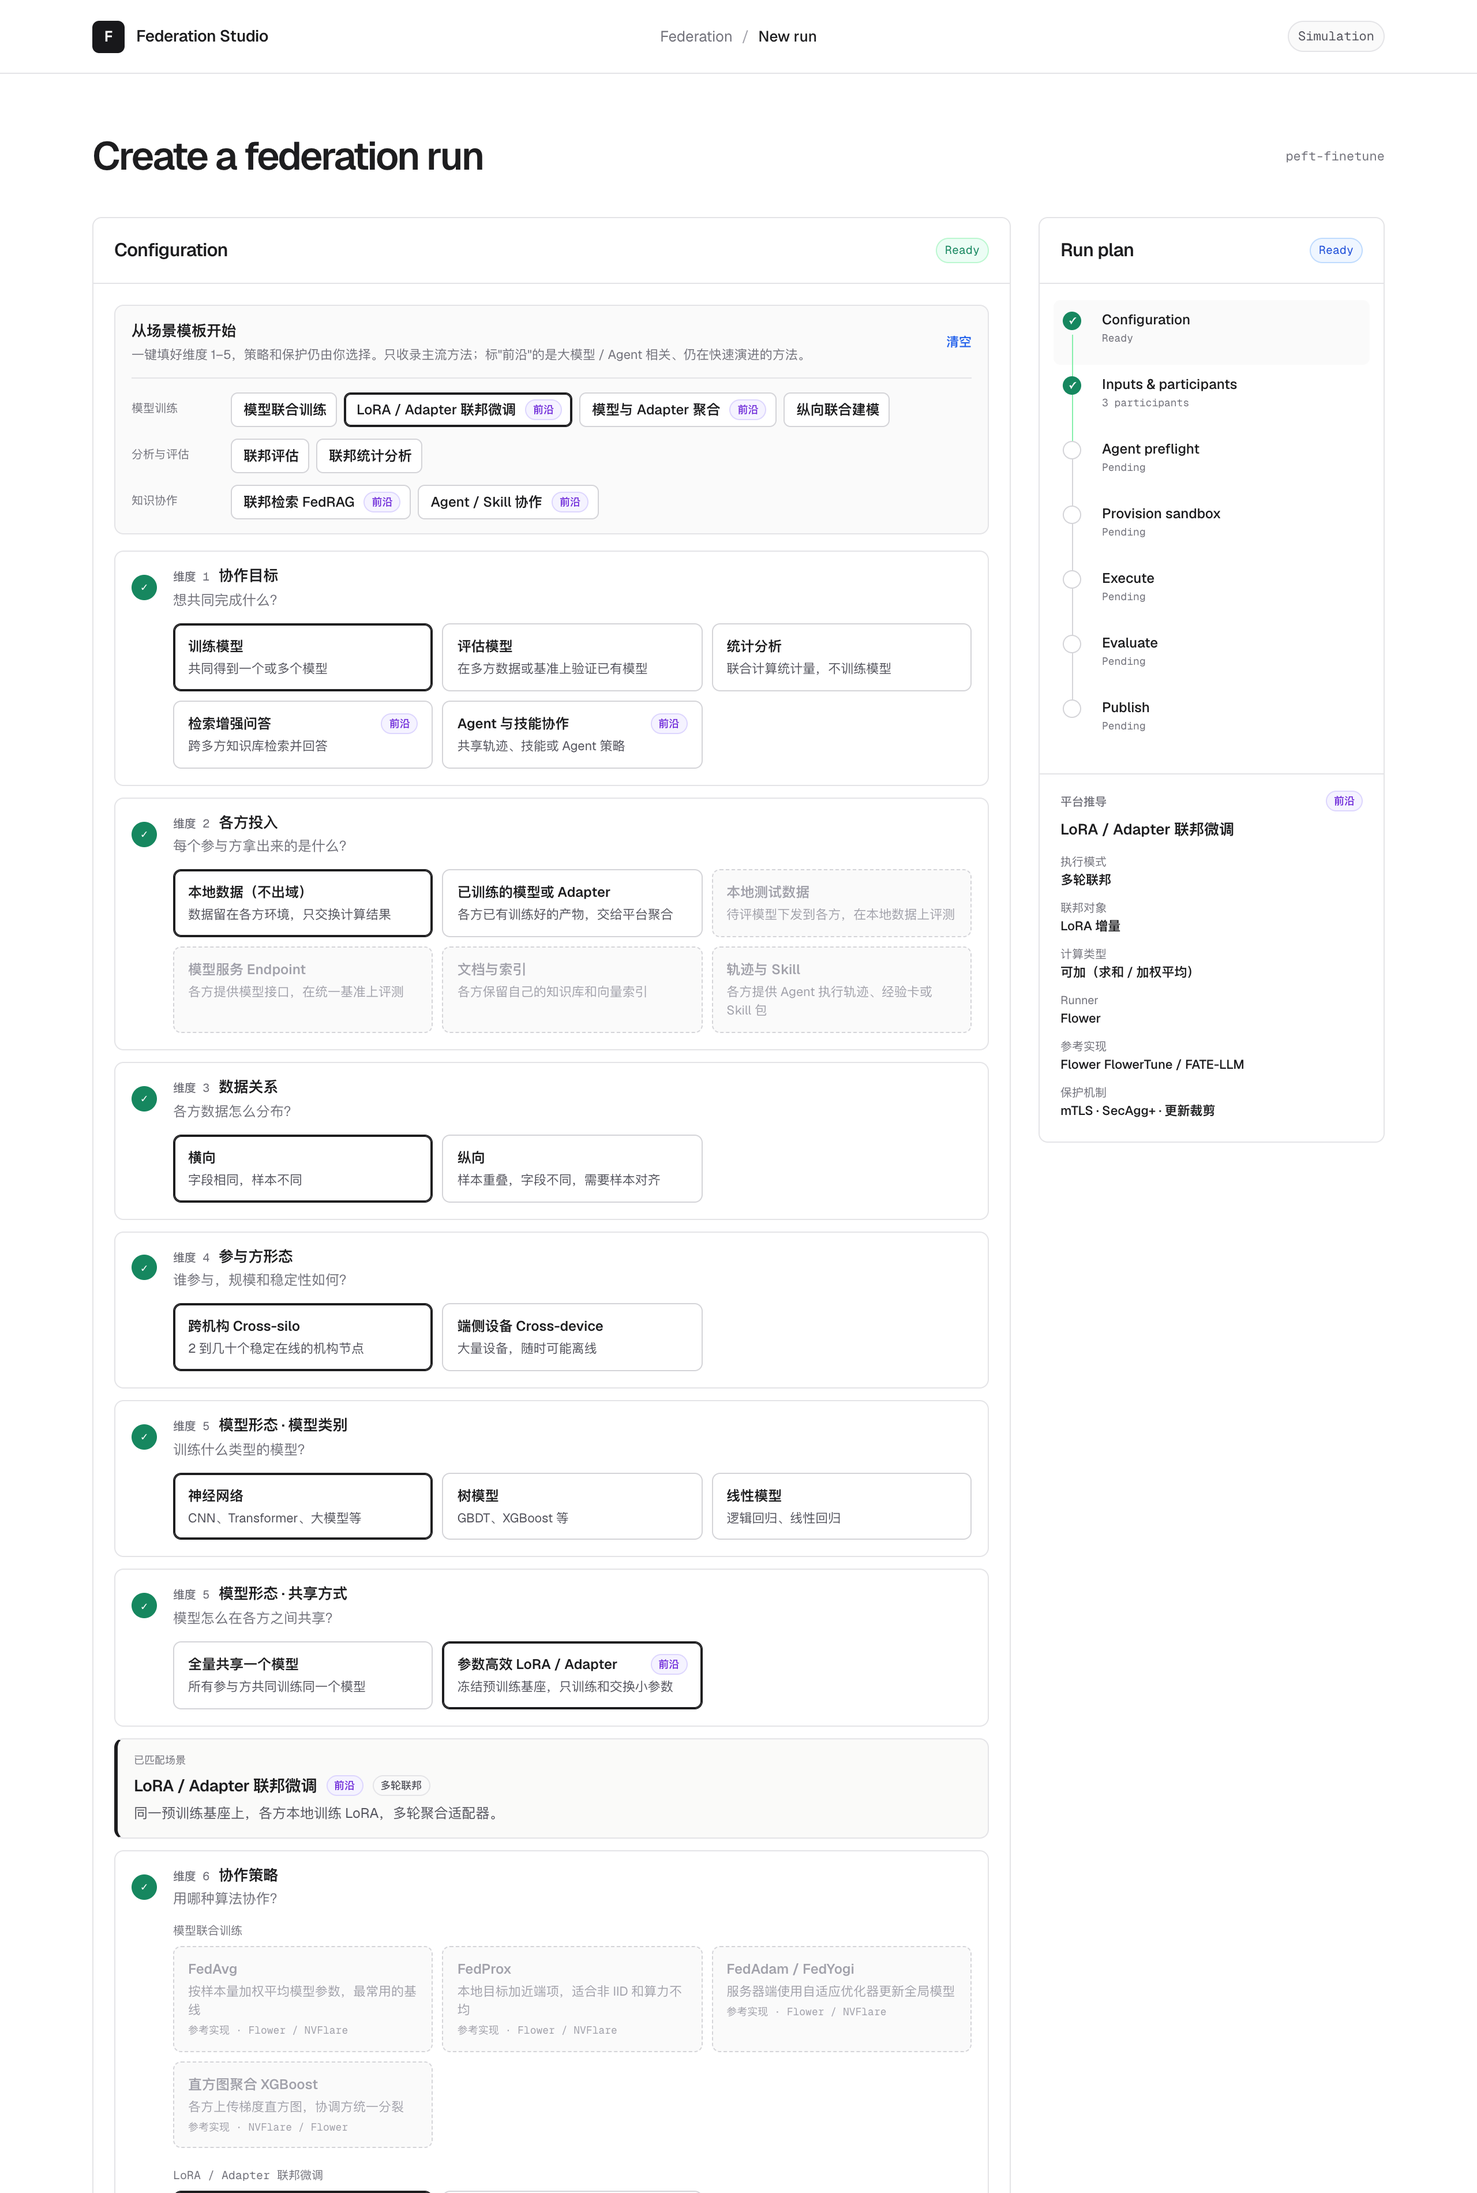
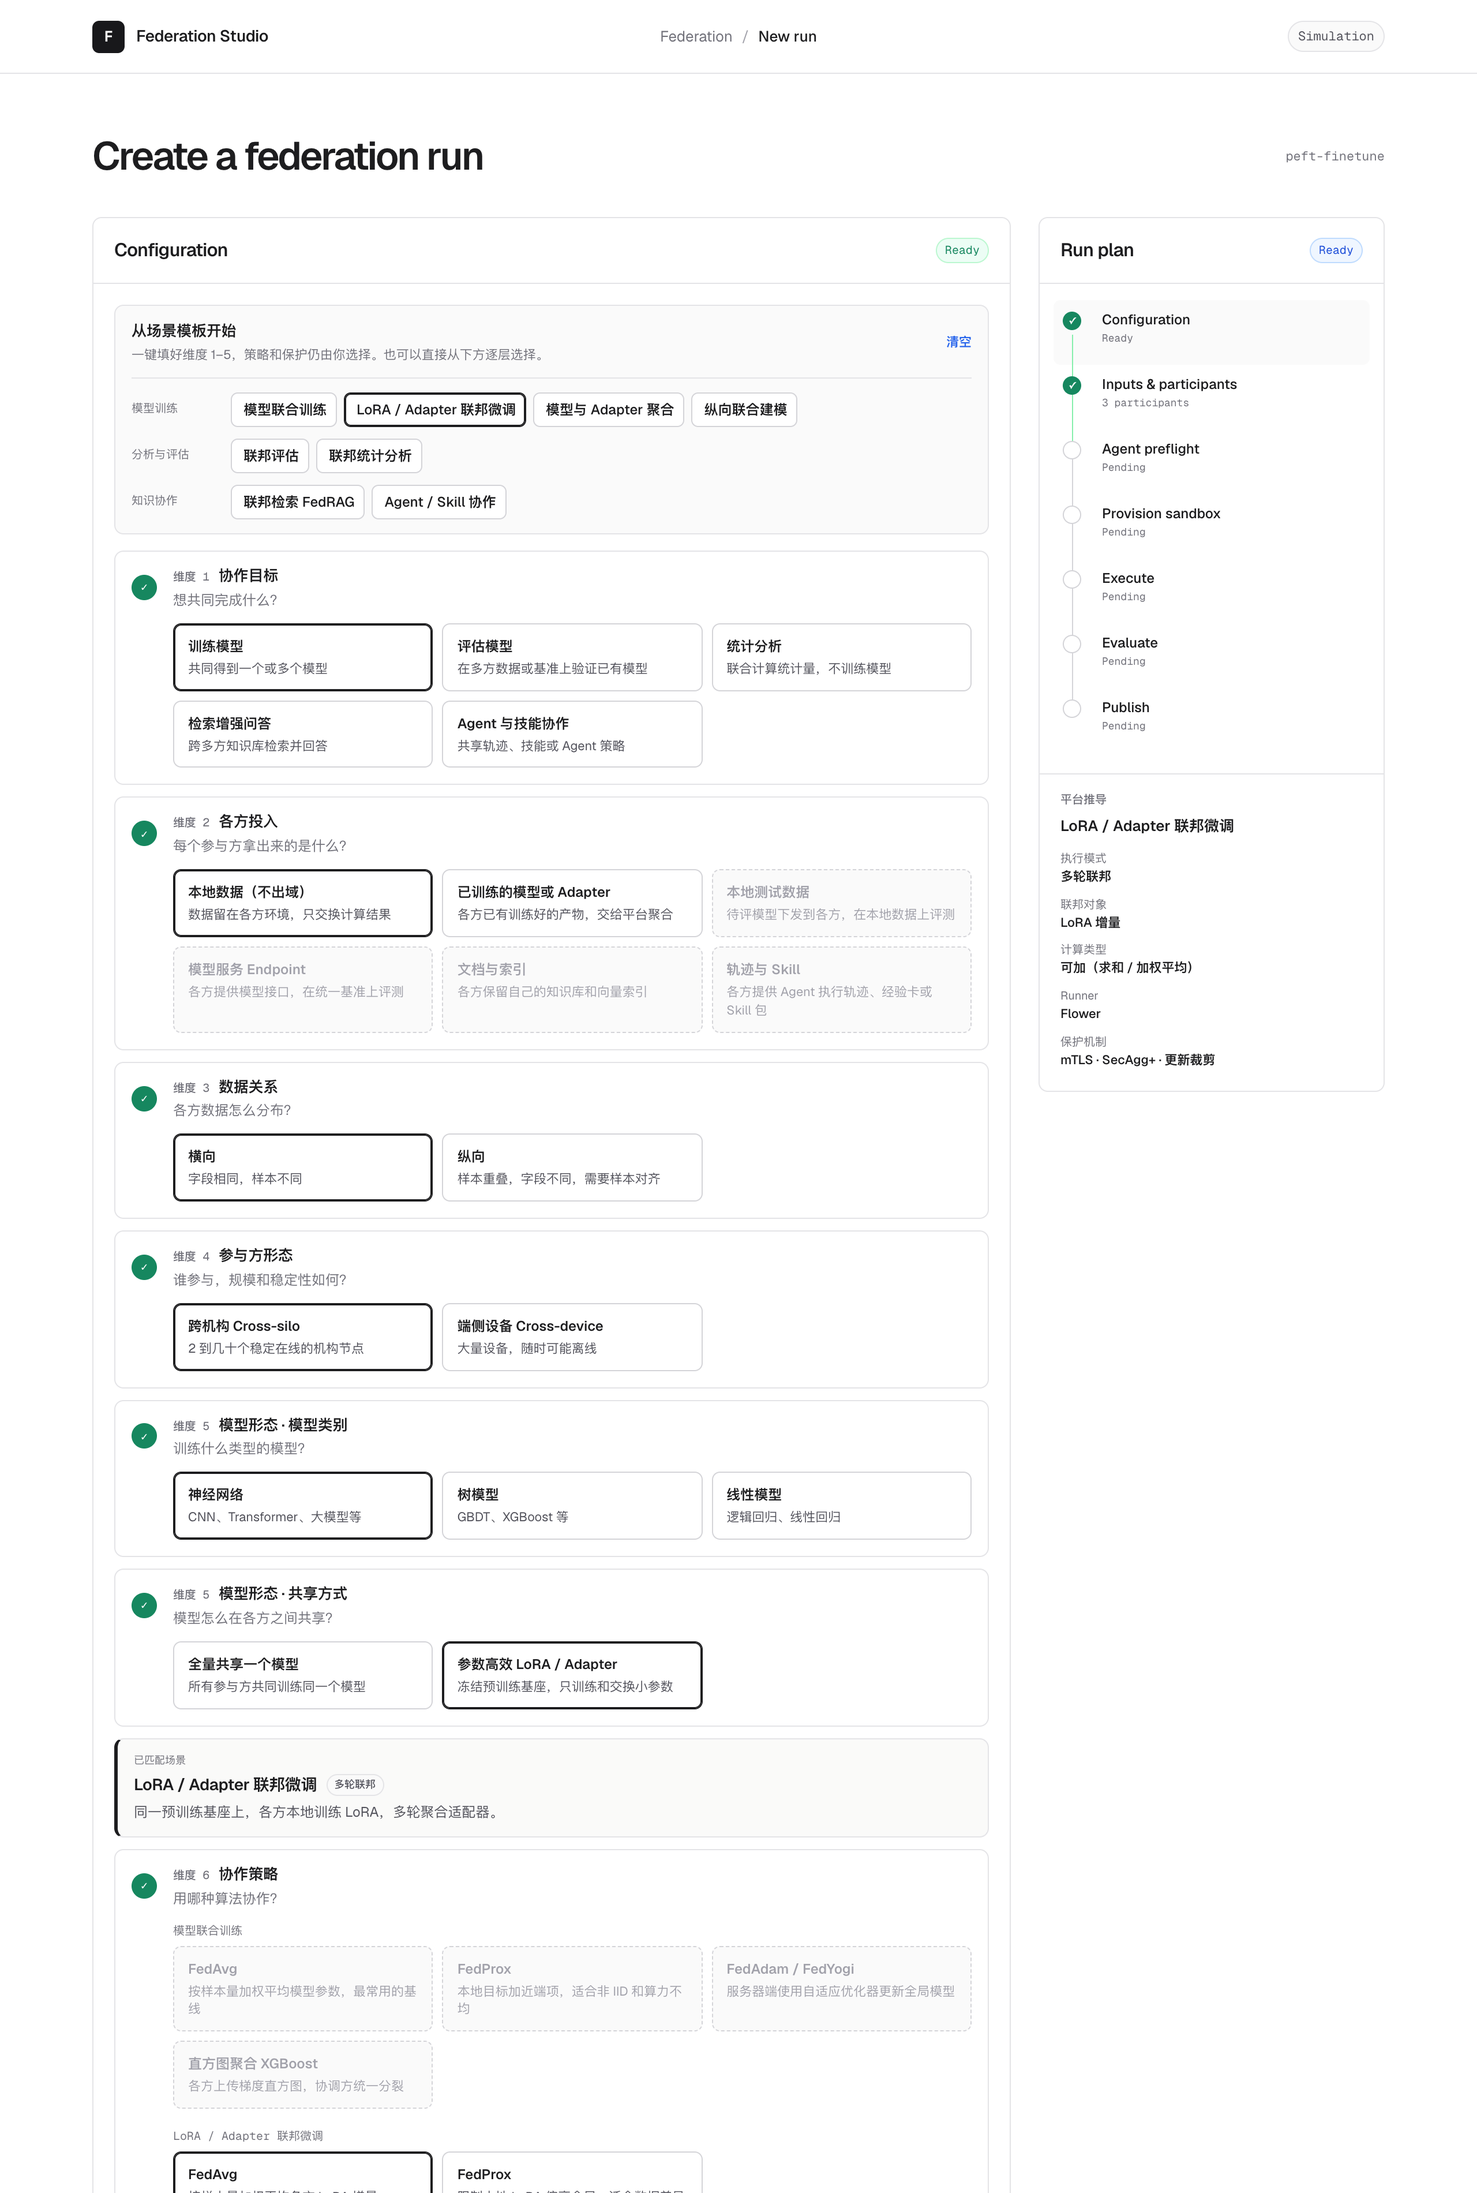
feat: drop frontier badges and reference-implementation hints from the UI
T18：
- 选项卡片、模板、已匹配场景和平台推导面板不再显示"前沿"标注
- 选项卡片和平台推导面板去掉"参考实现"，沙箱阶段只显示 runner
- 准入不再输出"前沿方法"提示；adoption 与 references 保留为注册表内部数据
- GOAL：C13 退役，新增 C14；同步更新文档和截图

diff --git a/app/src/ui/ConfigurationStep.tsx b/app/src/ui/ConfigurationStep.tsx
@@ -17,11 +17,9 @@ import {
   SCENARIOS,
   SCENARIO_GROUP_LABEL,
   protectionOf,
-  strategyOf,
   type ScenarioGroup,
 } from "../domain/taxonomy";
 import type { Action } from "../state/store";
-import { AdoptionBadge } from "./common";
 
 type Props = {
   selection: Selection;
@@ -111,7 +109,7 @@ function TemplateBar({
       <header className="template-head">
         <div>
           <h3 id="template-title">从场景模板开始</h3>
-          <p>一键填好维度 1–5，策略和保护仍由你选择。只收录主流方法；标"前沿"的是大模型 / Agent 相关、仍在快速演进的方法。</p>
+          <p>一键填好维度 1–5，策略和保护仍由你选择。也可以直接从下方逐层选择。</p>
         </div>
         {onClear && !locked ? <button type="button" className="text-button" onClick={onClear}>清空</button> : null}
       </header>
@@ -131,7 +129,6 @@ function TemplateBar({
                   onClick={() => onApply(scenario.id)}
                 >
                   <span>{scenario.label}</span>
-                  <AdoptionBadge adoption={scenario.adoption} />
                 </button>
               ))}
             </div>
@@ -203,7 +200,6 @@ function OptionTile({
   locked: boolean;
   onChoose: (value: string) => void;
 }) {
-  const strategy = strategyOf(option.choice.id);
   return (
     <button
       type="button"
@@ -215,10 +211,8 @@ function OptionTile({
     >
       <span className="option-top">
         <strong>{option.choice.label}</strong>
-        <AdoptionBadge adoption={option.choice.adoption} />
       </span>
       <span className="option-hint">{option.choice.hint}</span>
-      {strategy ? <span className="option-meta">参考实现 · {strategy.references.join(" / ")}</span> : null}
       {option.warning ? <span className="option-warning">{option.warning}</span> : null}
     </button>
   );
@@ -232,7 +226,6 @@ function ScenarioMatch({ selection }: { selection: Selection }) {
       <span className="scenario-match-label">已匹配场景</span>
       <div className="scenario-match-main">
         <strong>{scenario.label}</strong>
-        <AdoptionBadge adoption={scenario.adoption} />
         <span className="badge">{PATTERN_LABEL[scenario.pattern(selection)]}</span>
       </div>
       <p>{scenario.summary}</p>

diff --git a/app/src/styles.css b/app/src/styles.css
@@ -306,7 +306,7 @@ button:active:not(:disabled) { transform: translateY(1px); }
 .option-tile:hover:not(:disabled) { background: var(--surface); border-color: #a1a1aa; }
 .option-tile--selected { border-color: var(--foreground); box-shadow: inset 0 0 0 1px var(--foreground); }
 .option-tile:disabled { cursor: not-allowed; background: var(--surface); border-style: dashed; }
-.option-tile:disabled .option-top strong, .option-tile:disabled .option-hint, .option-tile:disabled .option-meta { color: var(--faint); }
+.option-tile:disabled .option-top strong, .option-tile:disabled .option-hint { color: var(--faint); }
 .option-tile:disabled .badge { opacity: .55; }
 .option-tile--selected:disabled { cursor: default; background: var(--background); border-style: solid; }
 .option-tile--selected:disabled .option-top strong { color: var(--foreground); }
@@ -315,7 +315,6 @@ button:active:not(:disabled) { transform: translateY(1px); }
 .option-top { display: flex; gap: 8px; justify-content: space-between; align-items: center; }
 .option-top strong { font-size: 12px; font-weight: 570; }
 .option-hint { color: var(--secondary); font-size: 11px; line-height: 1.45; }
-.option-meta { color: var(--muted); font-family: var(--mono); font-size: 9px; }
 .option-reason { color: var(--danger); font-size: 10px; line-height: 1.45; }
 .option-warning { color: #a15c07; font-size: 10px; line-height: 1.45; }
 .option-warning::before, .option-reason::before { margin-right: 4px; font-weight: 700; }
@@ -323,7 +322,6 @@ button:active:not(:disabled) { transform: translateY(1px); }
 .option-reason::before { content: "×"; }
 
 .badge { flex: none; padding: 1px 6px; color: var(--secondary); background: var(--surface); border: 1px solid var(--border); border-radius: 999px; font-family: var(--mono); font-size: 9px; font-weight: 500; line-height: 1.6; white-space: nowrap; }
-.badge--frontier { color: #6d28d9; background: #f5f3ff; border-color: #ddd6fe; }
 .badge--auto { color: var(--muted); border-style: dashed; }
 
 .scenario-match { padding: 12px 14px; display: grid; gap: 4px; background: #fafaf9; border: 1px solid var(--border); border-left: 3px solid var(--foreground); border-radius: var(--radius); }

diff --git a/app/src/domain/plan.ts b/app/src/domain/plan.ts
@@ -96,12 +96,10 @@ const LOCATIONS: Record<ExecutionPattern, Omit<ExecutionLocations, "controlPlane
 /** 已经能推导出的部分，供右侧面板在选择过程中实时展示。 */
 export type PlanPreview = {
   scenario?: string;
-  adoption?: Adoption;
   pattern?: string;
   exchanged?: string;
   computeKind?: string;
   runner?: string;
-  references?: string[];
   mechanisms?: string[];
 };
 
@@ -110,16 +108,13 @@ export function planPreview(selection: Selection): PlanPreview {
   if (!scenario) return {};
   const preview: PlanPreview = {
     scenario: scenario.label,
-    adoption: scenario.adoption,
     pattern: PATTERN_LABEL[scenario.pattern(selection)],
   };
   const strategy = strategyOf(selection.strategy);
   if (strategy) {
-    preview.adoption = combinedAdoption(scenario.adoption, strategy.adoption);
     preview.exchanged = strategy.exchanged;
     preview.computeKind = COMPUTE_KIND_LABEL[strategy.computeKind];
     preview.runner = strategy.runner;
-    preview.references = [...strategy.references];
   }
   const protection = protectionOf(selection.protection);
   if (protection) {
@@ -151,7 +146,6 @@ export function buildRunPlan(selection: Selection): FrontendRunPlan | null {
     if (option?.warning) warnings.push(option.warning);
   }
   const adoption = combinedAdoption(scenario.adoption, strategy.adoption);
-  if (adoption === "frontier") warnings.push("包含大模型 / Agent 前沿方法，工具链和最佳实践仍在快速变化");
 
   return {
     schemaVersion: "frontend.run-plan/v1",

diff --git a/app/src/ui/RunPanel.tsx b/app/src/ui/RunPanel.tsx
@@ -2,7 +2,6 @@ import { planPreview } from "../domain/plan";
 import { isComplete } from "../domain/selection";
 import { stageOf, type StageStatus } from "../domain/run";
 import type { State } from "../state/store";
-import { AdoptionBadge } from "./common";
 import { FLOW_STEPS, isRunStage, type FlowStepId } from "./flow";
 
 type Props = {
@@ -43,7 +42,6 @@ export default function RunPanel({ state, minParticipants, activeStep, onSelectS
     ["联邦对象", preview.exchanged],
     ["计算类型", preview.computeKind],
     ["Runner", preview.runner],
-    ["参考实现", preview.references?.join(" / ")],
     ["保护机制", preview.mechanisms?.join(" · ")],
   ];
 
@@ -75,7 +73,6 @@ export default function RunPanel({ state, minParticipants, activeStep, onSelectS
       <section className="derived" aria-labelledby="derived-title">
         <header className="derived-head">
           <h3 id="derived-title">平台推导</h3>
-          <AdoptionBadge adoption={preview.adoption} />
         </header>
         <p className="derived-scenario">{preview.scenario ?? "完成维度 1–5 后匹配场景"}</p>
         <dl>

diff --git a/app/src/domain/plan.test.ts b/app/src/domain/plan.test.ts
@@ -55,14 +55,12 @@ describe("frontend run plan", () => {
     expect(plan?.strategy.id).toBe("fa-psi-stats");
   });
 
-  it("marks the plan as frontier when the scenario or strategy is a large-model / agent method", () => {
+  it("records internally whether the plan uses a large-model / agent method", () => {
     const rag = buildRunPlan(completed("fedrag"));
     expect(rag?.adoption).toBe("frontier");
-    expect(rag?.warnings.some((warning) => warning.includes("前沿"))).toBe(true);
 
     const training = buildRunPlan(completed("model-training"));
     expect(training?.adoption).toBe("mainstream");
-    expect(training?.warnings.some((warning) => warning.includes("前沿"))).toBe(false);
   });
 
   it("previews derived values while the user is still choosing", () => {

diff --git a/app/src/ui/common.tsx b/app/src/ui/common.tsx
@@ -1,5 +1,4 @@
 import type { ReactNode } from "react";
-import { ADOPTION_LABEL, type Adoption } from "../domain/taxonomy";
 
 export type Tone = "complete" | "running" | "failed" | "ready";
 
@@ -49,12 +48,6 @@ export function StageMessage({ text, running = false, tone }: { text: string; ru
       <p>{text}</p>
     </div>
   );
-}
-
-/** 主流方法不打标签；只标出大模型 / Agent 相关的前沿方法。 */
-export function AdoptionBadge({ adoption }: { adoption?: Adoption }) {
-  if (adoption !== "frontier") return null;
-  return <span className="badge badge--frontier">{ADOPTION_LABEL.frontier}</span>;
 }
 
 export function Facts({ items }: { items: readonly (readonly [string, ReactNode])[] }) {

diff --git a/app/src/ui/StageStep.tsx b/app/src/ui/StageStep.tsx
@@ -72,7 +72,7 @@ function body(stageId: RunStage, run: Run): ReactNode {
       return (
         <Facts
           items={[
-            ["Runner", `${plan.runner}（参考 ${plan.references.join(" / ")}）`],
+            ["Runner", plan.runner],
             ["协调方", plan.locations.coordinator],
             ["参与方侧", plan.locations.participantWorker],
             ["网络", "默认拒绝"],

diff --git a/docs/DIMENSIONS.md b/docs/DIMENSIONS.md
@@ -1,6 +1,6 @@
 # 配置维度设计
 
-最后复核：2026-09-24（T14 批准，T15 实现，T16 调整展示方式，T17 精简候选）
+最后复核：2026-09-24（T14 批准，T15 实现，T16 调整展示方式，T17 精简候选，T18 去掉标注）
 
 平台不追求覆盖所有联邦方法，但对方法有一套统一分层：用户按顺序回答 8 个问题，逐层收窄，最后落到一个可运行的场景和策略。代码实现见 `app/src/domain/taxonomy.ts`（候选项）和 `app/src/domain/selection.ts`（依赖规则）。
 
@@ -10,8 +10,8 @@
 
 1. **只保留主流、实际用得多的方法**：有成熟开源实现、在真实项目里被广泛使用。
 2. **小众方法不收录**：即使论文和 benchmark 很成熟，实际没什么人用，也不放进候选。
-3. **大模型 / Agent 相关的方法可以保留**：这类方法还在快速演进，界面标为"前沿"。
-4. 未标注的候选都是主流方法；界面只标"前沿"，不再使用"成熟 / 试点 / 研究"三档。
+3. **大模型 / Agent 相关的方法可以保留**：即使还在快速演进。
+4. 界面不显示任何成熟度或"前沿"标注。注册表内部仍把候选分为 `mainstream` / `frontier`，只用于本文档和 FrontendRunPlan 记录，下表"标注"列即此内部分类。
 
 ## 设计原则
 
@@ -22,7 +22,7 @@
 5. **不支持的原因保留在规则引擎里**，用于准入检查和测试，不在配置页展示。
 6. **场景模板是维度 1–5 组合的落点**，不是入口下拉框；同时保留"从模板开始"的快捷入口。
 7. **平台能推导的不让用户选**：联邦对象、计算类型、执行模式、输入接入方式、runner、评测、输出由平台推导，显示在 Run Plan 里。
-8. **每条策略带参考开源实现**，作为分层的现实依据。
+8. **注册表为每条策略记录参考开源实现**，作为分层的现实依据和 runner 推导来源；界面不展示"参考实现"，只在 Run Plan 显示推导出的 runner。
 
 ## 选择顺序与依赖
 

diff --git a/docs/HISTORY.md b/docs/HISTORY.md
@@ -91,3 +91,16 @@
   3. 测试：删去已移除方法的用例，新增"只有大模型 / Agent 相关标前沿"和"纵向不收录神经网络"的检查，共 50 个。
   4. 文档：重写 DIMENSIONS（新增收录原则和"未收录"清单），更新 README、GOAL（C9 退役，新增 C13）、ARCHITECTURE、PROGRESS、DECISIONS（D13）、DEVELOPMENT。
   5. 验证：`npm run check` 通过；浏览器检查模板标签和 PEFT 完整运行。
+
+## T18：去掉"前沿"标注和"参考实现"小字
+
+- 类型：Delivery（正式交付，界面调整）
+- 时间：2026-09-24
+- 状态：完成
+- 相关：C13（退役）→ C14；影响 L1
+- 用户要求：不用标注"前沿"；"参考实现"那行小字全部去掉。
+- 步骤：
+  1. 界面：删除 `AdoptionBadge`（选项卡片、模板、已匹配场景、平台推导面板）；删除选项卡片的"参考实现"行、平台推导面板的"参考实现"行、沙箱阶段 Runner 后的参考说明；模板提示文字去掉"前沿"说明；准入不再输出"前沿方法"提示。
+  2. 注册表保留 `adoption` 和 `references` 作为内部数据，FrontendRunPlan 仍记录。
+  3. 测试：50 个通过。
+  4. 文档：DIMENSIONS、GOAL（C13 退役，新增 C14）、README、PROGRESS、ARCHITECTURE，更新截图。

diff --git a/docs/PROGRESS.md b/docs/PROGRESS.md
@@ -18,9 +18,9 @@
 
 ### 界面
 
-- 配置步骤所有维度和候选项始终展开；上游选完后下游不支持的选项自动置灰（不显示原因）；唯一可选项自动选中。
+- 配置步骤所有维度和候选项始终展开；上游选完后下游不支持的选项自动置灰（不显示原因）；唯一可选项自动选中；不显示成熟度、前沿或参考实现标注。
 - 场景模板快捷入口，按"模型训练 / 分析与评估 / 知识协作"分组。
-- 右侧"平台推导"面板实时显示场景、是否前沿、执行模式、联邦对象、计算类型、runner、参考实现和保护机制。
+- 右侧"平台推导"面板实时显示场景、执行模式、联邦对象、计算类型、runner 和保护机制。
 - 输入与参与方接入按接入方式变化，纵向显示 Guest / Host 角色，产物类场景可以上传文件（只记录文件名和大小）。
 - 发布需要选择范围并手动确认，可以查看冻结的 FrontendRunPlan。
 - 桌面端与移动端均可用。
